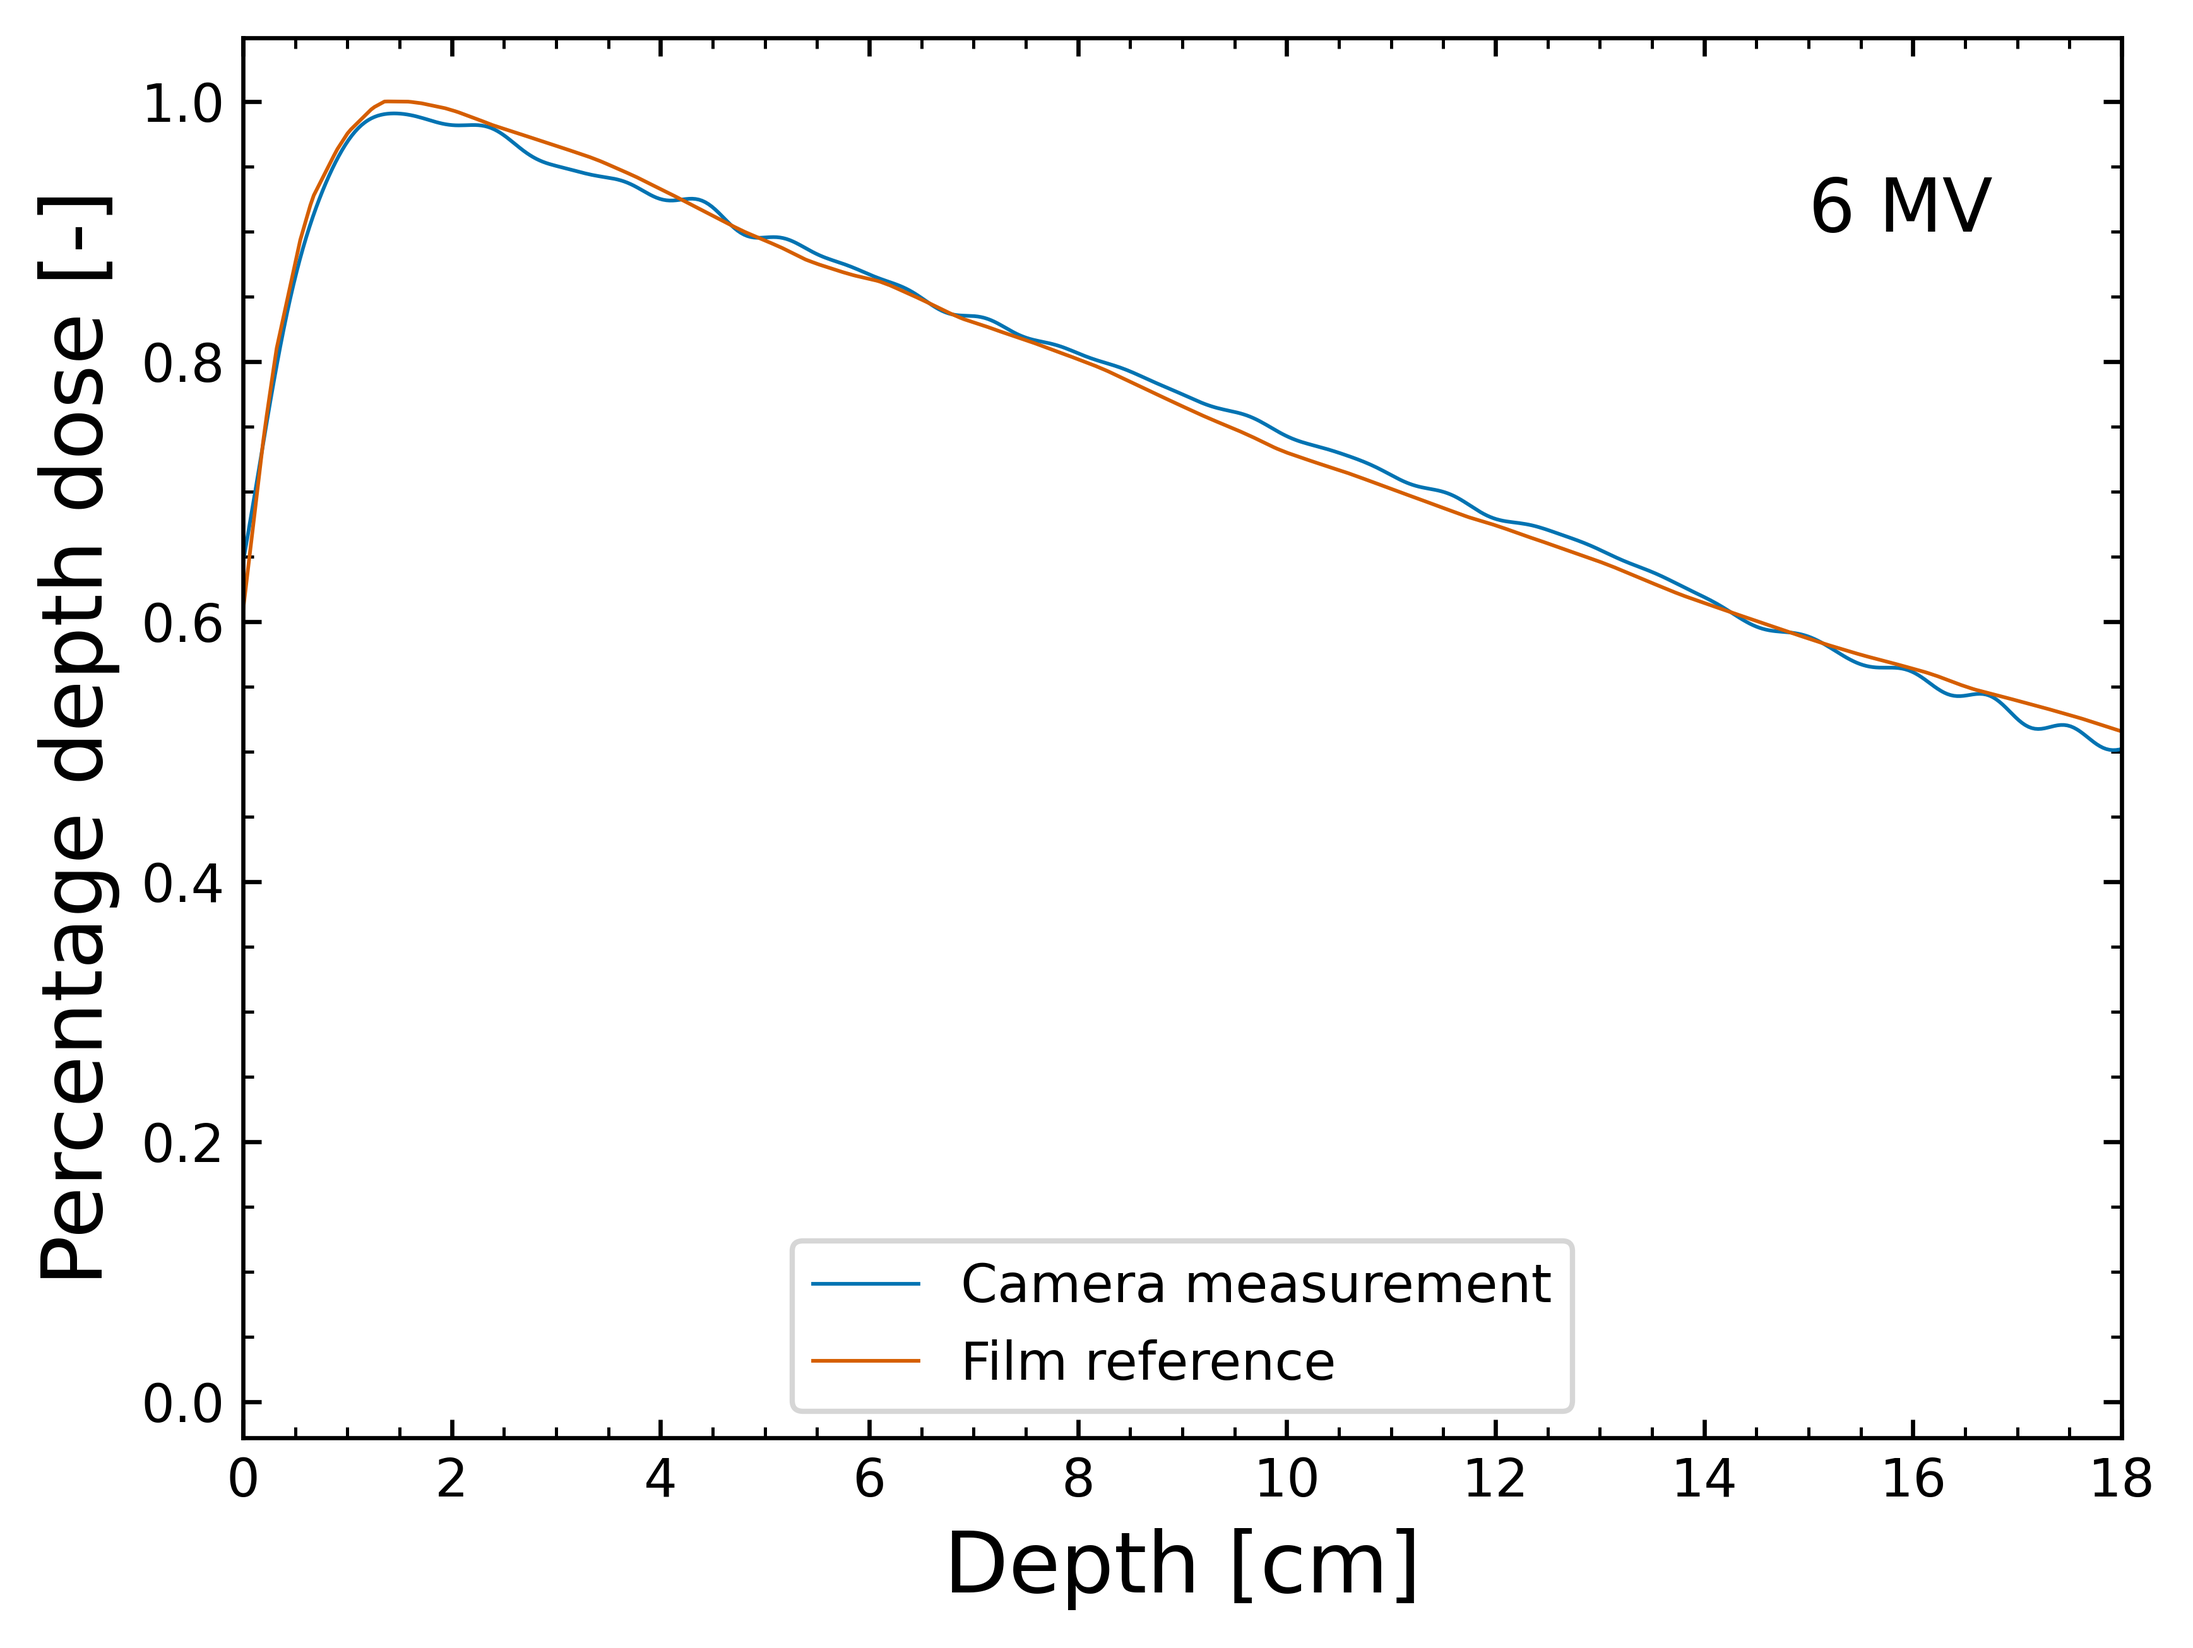
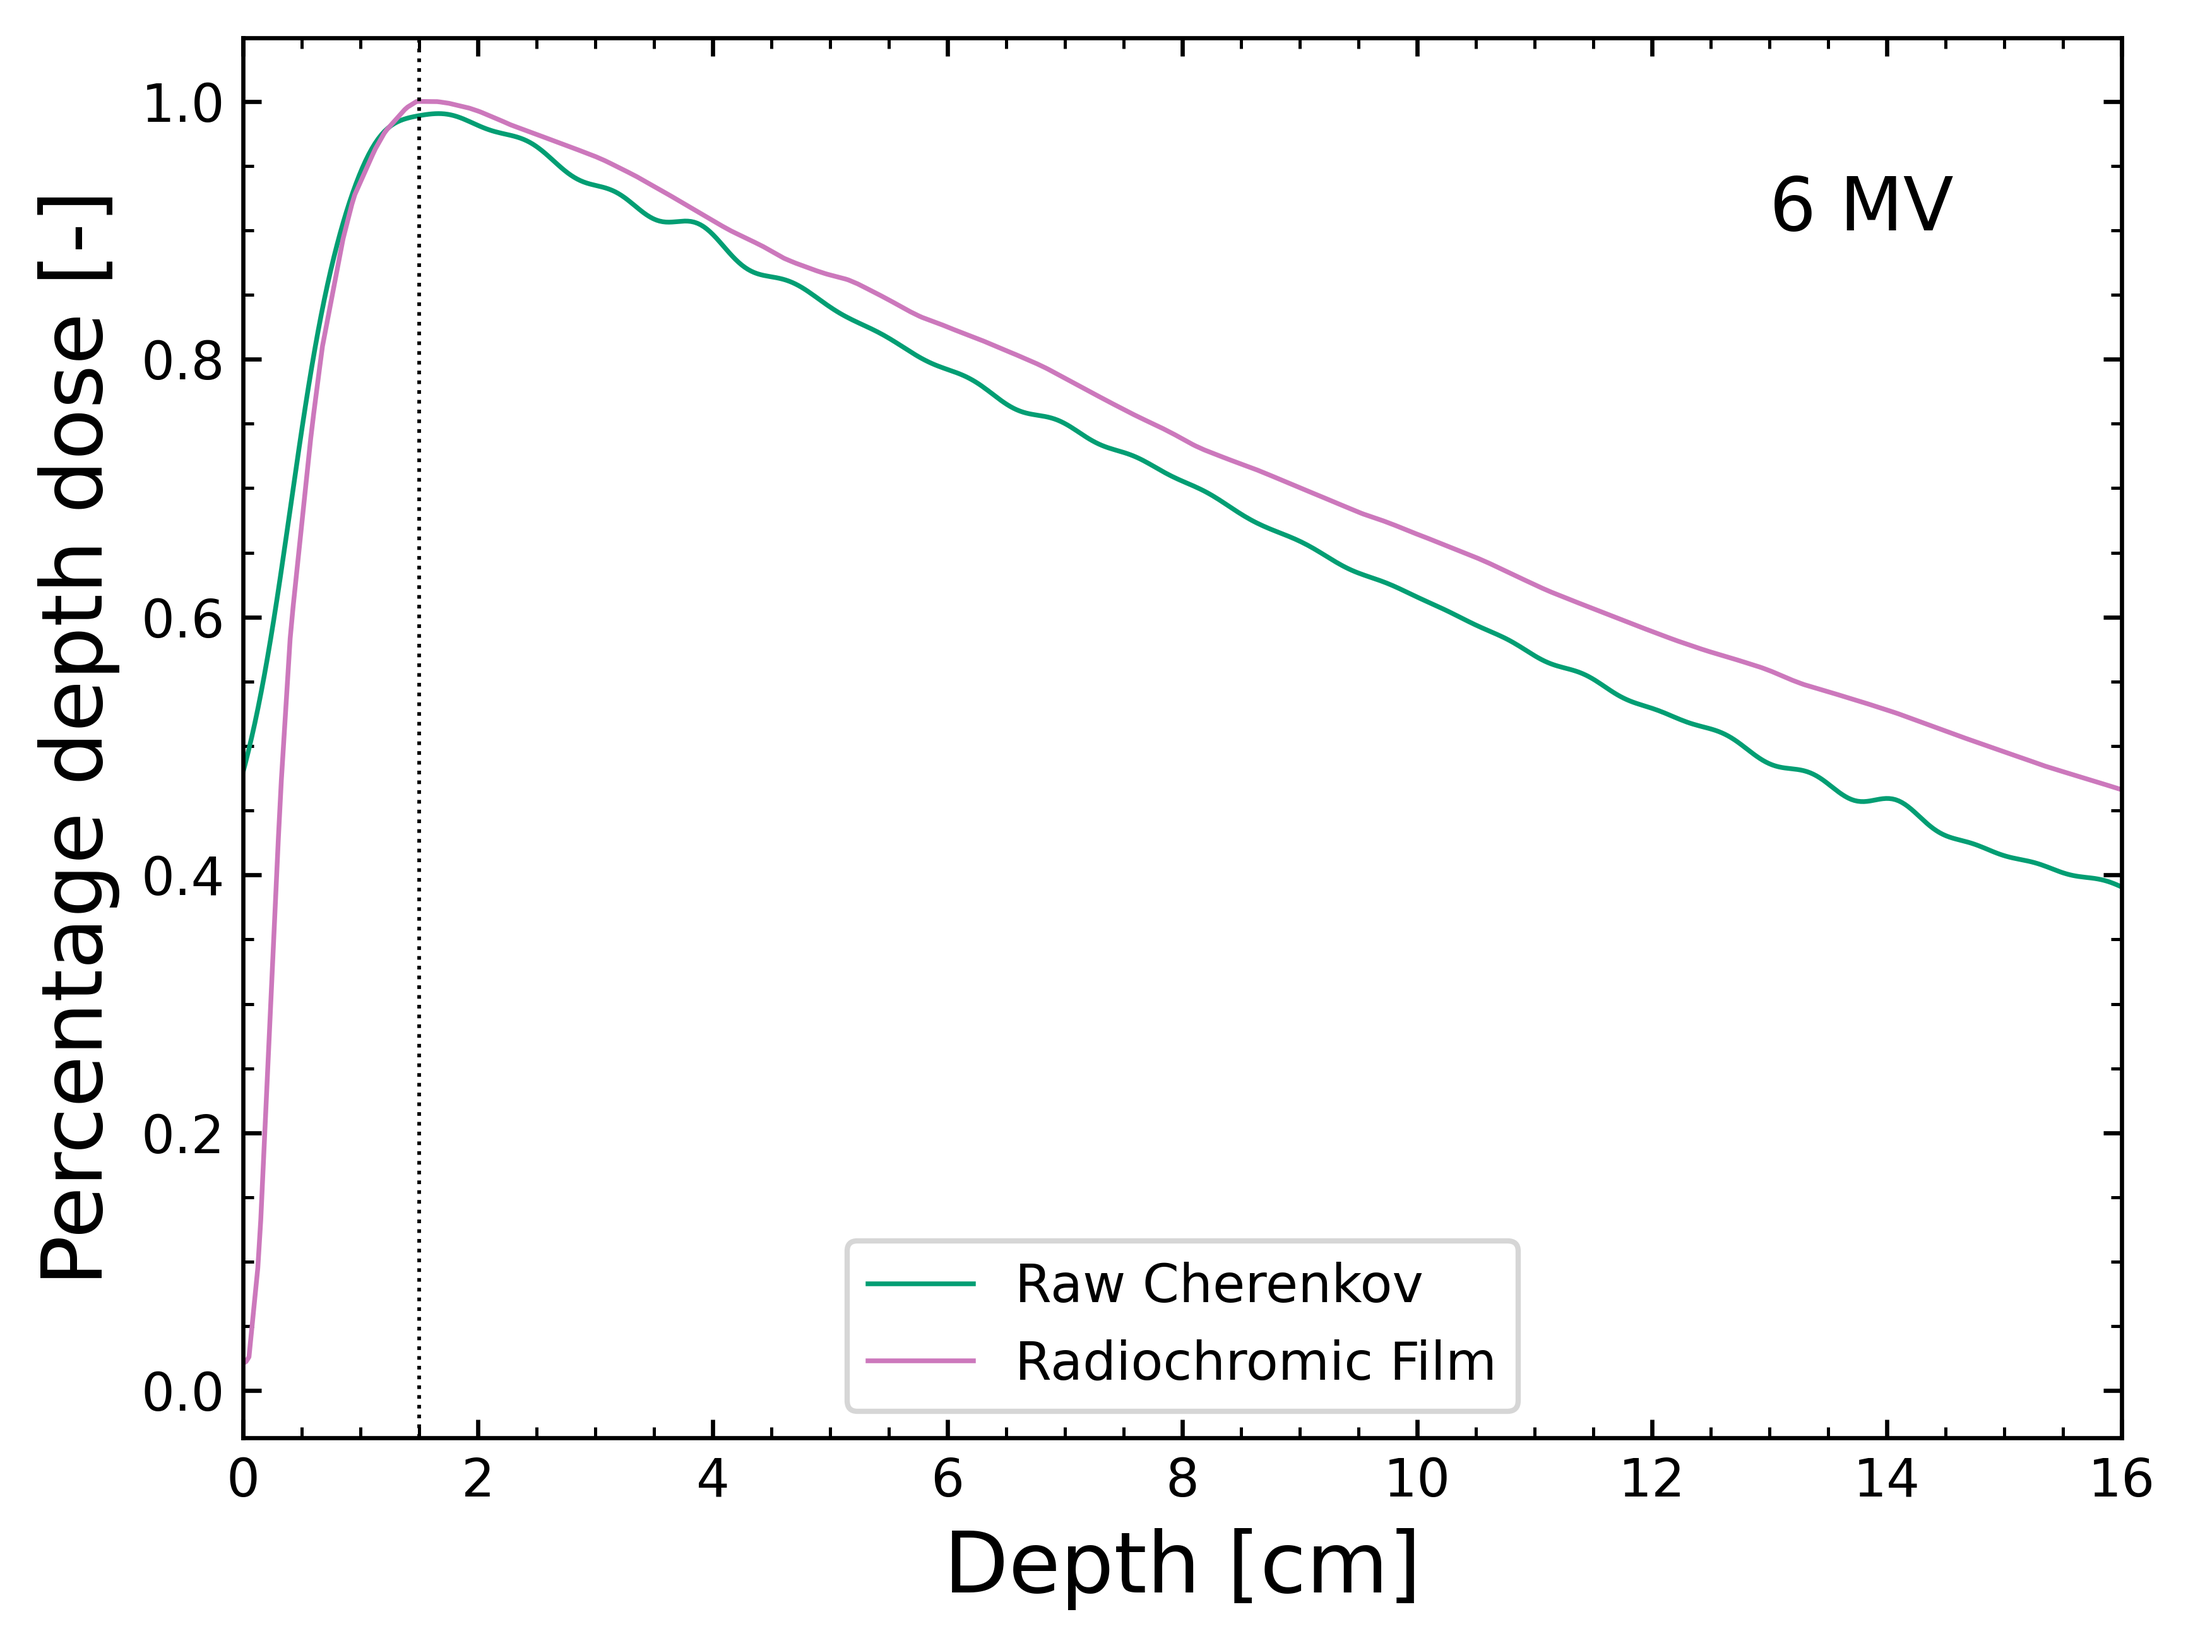
translate ref

diff --git a/LINAC/test_ref_3.py b/LINAC/test_ref_3.py
@@ -51,21 +51,32 @@ class Analysis:
         Returns:
             tuple: Lists of intensity profiles, maximum values, and maximum indices.
         """
+        interval_size = 20
+        x_offset = 30
         intensity_list = []
         max_value_list =[]
         max_index_list = []
 
         for improved_image in self.improved_images:
             img = plt.imread(improved_image)
+            width = img.shape[1]
+            central_row = width // 2
+
+            start_line = central_row - interval_size - x_offset
+            end_line = central_row + interval_size - x_offset
 
             # Calculate the mean intensity along the vertical axis
-            intensity = np.mean(img, axis=1)
+            img_centered = []
+            for row in img:
+                img_centered.append(row[start_line:end_line])
+
+            intensity = np.mean(img_centered, axis=1)
             intensity_list.append(list(intensity))
             max_index = np.argmax(intensity)
             max_value_list.append(intensity[max_index])
             max_index_list.append(max_index)
 
-        return intensity_list, max_value_list, max_index_list
+        return intensity_list, max_value_list, max_index_list, start_line, end_line
 
     def curve_fft(self, x_data_graph):
         """Perform Fourier transform and return the reconstructed data after thresholding.
@@ -93,64 +104,94 @@ class Analysis:
         intensity_profiles = self.pdd_grayvalues()[0]
         directory = os.path.join(self.path, "PDD", self.energy)
         os.makedirs(directory, exist_ok=True)
+        target_position_cm = 1.5
 
         film_path = f"Measurements/Data_Emily/RP{self.energy}_film.txt"
         film_data = []
         for data in np.loadtxt(film_path):
             film_data.append(data)
+        max_film_index = np.argmax(film_data)
+        film_data_per_cm = max_film_index / target_position_cm
+        film_total_cm = len(film_data) / film_data_per_cm
+        film_position_cm = np.linspace(0, film_total_cm, len(film_data))
 
         for index, intensity in enumerate(intensity_profiles):
             relative_intensity = intensity / self.pdd_grayvalues()[1][index]
             reconstructed_data = self.curve_fft(relative_intensity)
-            position_pix = np.linspace(-160, len(reconstructed_data), len(reconstructed_data))
+
+            max_relative_intensity_index = np.argmax(relative_intensity)
+            position_pix = np.linspace(0, len(reconstructed_data), len(reconstructed_data))
             position_cm = position_pix * self.pixel_converter[0] /10
-            film_ax_position_cm = np.linspace(-0.55, 20.5, len(film_data))
+            max_intensity_position_cm = position_cm[max_relative_intensity_index]
+            offset = target_position_cm - max_intensity_position_cm
 
             # Create and customize the plot
             fig, ax = plt.subplots()
             palette = sns.color_palette("colorblind")
-            ax.plot(position_cm, reconstructed_data, color=palette[0], linewidth="0.7", label="Camera measurement")
-            ax.plot(film_ax_position_cm, film_data, color=palette[3], linewidth="0.7", label="Film reference")
+            ax.plot(position_cm + offset, reconstructed_data, color=palette[2], linewidth="0.9", label="Raw Cherenkov")
+            ax.plot(film_position_cm, film_data, color=palette[4], linewidth="0.9", label="Radiochromic Film")
+            plt.axvline(x=target_position_cm, color="black", linestyle=":", linewidth="0.7")
             ax.legend(loc="lower center")
             ax.minorticks_on()
             ax.tick_params(top=True, right=True, axis="both", which="both", direction='in')
             ax.set_ylabel("Percentage depth dose [-]", fontsize=16)
             ax.set_xlabel("Depth [cm]", fontsize=16)
-            ax.set_xlim(0, 18)
+            ax.set_xlim(0, 16)
 
             numbers = "".join(filter(str.isdigit, self.energy))
             text = "".join(filter(str.isalpha, self.energy))
-            ax.text(x=15, y=0.9, s="{0} {1}".format(numbers, text), fontsize=14)
+            ax.text(x=13, y=0.9, s="{0} {1}".format(numbers, text), fontsize=14)
 
             # Save the plot as an image
             plt.savefig(os.path.join(directory, "with_ref"), bbox_inches="tight", dpi=600)
             plt.close(fig)
 
+    def plot_interval(self):
+        for image in self.improved_images:
+            img = cv.imread(image)
+            start, end = self.pdd_grayvalues()[3], self.pdd_grayvalues()[4]
+            cv.line(img, (start, 0), (start, img.shape[0]), (0,255, 0), thickness=1)
+            cv.line(img, (end, 0), (end, img.shape[0]), (0,255, 0), thickness=1)
+            cv.imwrite('IGL.png', img)
+            cv.destroyAllWindows()
+
     def calculate_curve_difference(self):
         # Get intensity profiles
         intensity_profiles = self.pdd_grayvalues()[0]
+        target_position_cm = 1.5
         film_path = f"Measurements/Data_Emily/RP{self.energy}_film.txt"
-        film_data = np.loadtxt(film_path)  # Normalize film data
+        film_data = []
+        for data in np.loadtxt(film_path):
+            film_data.append(data)
+        max_film_index = np.argmax(film_data)
+        film_data_per_cm = max_film_index / target_position_cm
+        film_total_cm = len(film_data) / film_data_per_cm
+        film_position_cm = np.linspace(0, film_total_cm, len(film_data))
 
         for index, intensity in enumerate(intensity_profiles):
             relative_intensity = intensity / self.pdd_grayvalues()[1][index]
             reconstructed_data = self.curve_fft(relative_intensity)
-            position_pix = np.linspace(-160, len(reconstructed_data), len(reconstructed_data))
-            position_cm = position_pix * self.pixel_converter[0] /10
-            film_ax_position_cm = np.linspace(-0.55, 20.5, len(film_data))
 
-            # Restrict the data to the interval from 0 cm to 18 cm
-            mask = (position_cm >= 0) & (position_cm <= 18)
-            position_cm = position_cm[mask]
+            max_relative_intensity_index = np.argmax(relative_intensity)
+            position_pix = np.linspace(0, len(reconstructed_data), len(reconstructed_data))
+            position_cm = position_pix * self.pixel_converter[0] /10
+            max_intensity_position_cm = position_cm[max_relative_intensity_index]
+            offset = target_position_cm - max_intensity_position_cm
+            position_centered = position_cm + offset
+
+            # Restrict the data to the interval from 0 cm to 16 cm
+            mask = (position_centered >= 0) & (position_centered <= 16)
+            position_centered = position_centered[mask]
             reconstructed_data = reconstructed_data[mask]
 
-            # Create a mask for film_ax_position_cm and film_data based on the length of position_cm
-            film_mask = (film_ax_position_cm >= 0) & (film_ax_position_cm <= 18)
-            film_ax_position_cm = film_ax_position_cm[film_mask]
+            film_data = np.array(film_data)
+            film_mask = (film_position_cm >= 0) & (film_position_cm <= 16)
+            film_position_cm = film_position_cm[film_mask]
             film_data = film_data[film_mask]
 
             # Interpolate the reconstructed curve to match the film data
-            interpolated_reconstructed_curve = np.interp(film_ax_position_cm, position_cm, reconstructed_data)
+            interpolated_reconstructed_curve = np.interp(film_position_cm, position_centered, reconstructed_data)
+            plt.plot(interpolated_reconstructed_curve)
 
             # Calculate the difference between the film data and the interpolated curve
             curve_difference = np.abs(film_data - interpolated_reconstructed_curve)
@@ -169,4 +210,4 @@ path = f"Measurements/{date}"
 analyse = Analysis(CHECKERBOARD, DIAGONALE, path, energy)
 difference = analyse.calculate_curve_difference()
 print(f"Curve Average Difference: {difference[0]:.3e} ± {difference[1]:.3e}")
-#analyse.plot_pdd()
+analyse.plot_pdd()

diff --git a/LINAC/test_ref.py b/LINAC/test_ref.py
@@ -143,8 +143,8 @@ class Analysis:
             # Create and customize the plot
             fig, ax = plt.subplots()
             palette = sns.color_palette("colorblind")
-            ax.plot(off_ax_position_cm, reconstructed_relative_intensity, color=palette[2], linewidth="0.9", label="Camera measurement")
-            ax.plot(film_ax_position_cm, film_data, color=palette[4], linewidth="0.9", label="Film reference")
+            ax.plot(off_ax_position_cm, reconstructed_relative_intensity, color=palette[2], linewidth="0.9", label="Raw Cherenkov")
+            ax.plot(film_ax_position_cm, film_data, color=palette[4], linewidth="0.9", label="Radiochromic Film")
             ax.legend()
             ax.minorticks_on()
             ax.tick_params(top=True, right=True, axis="both", which="both", direction='in')
